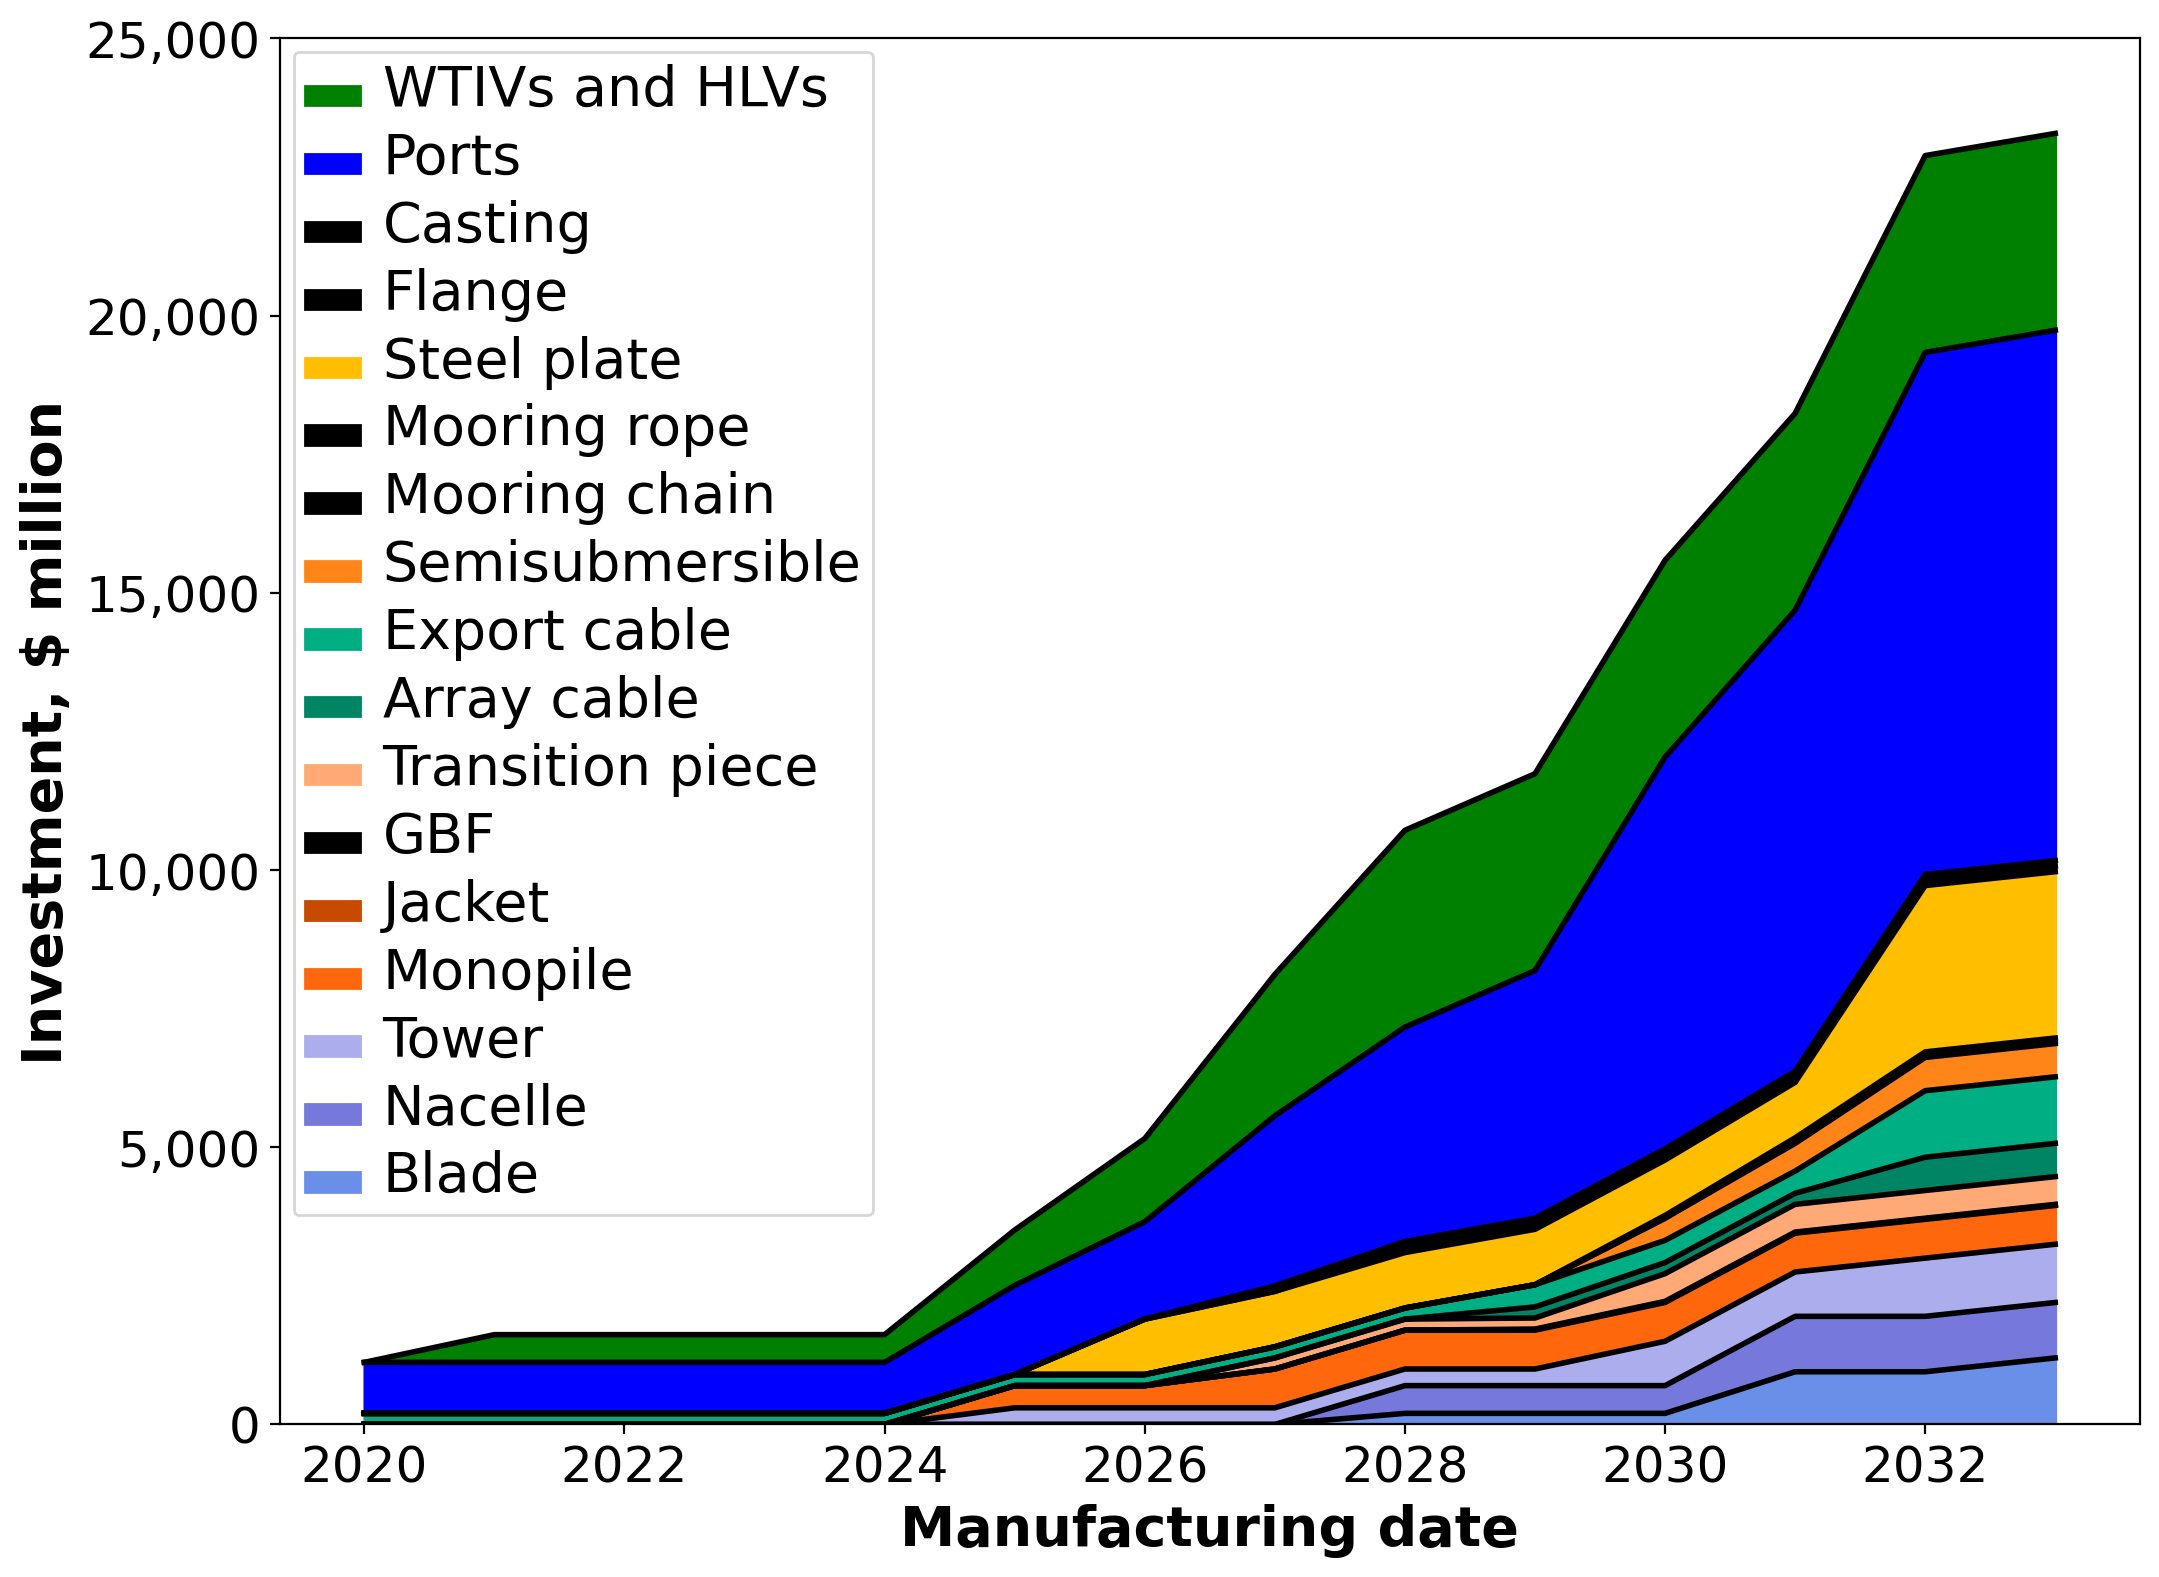
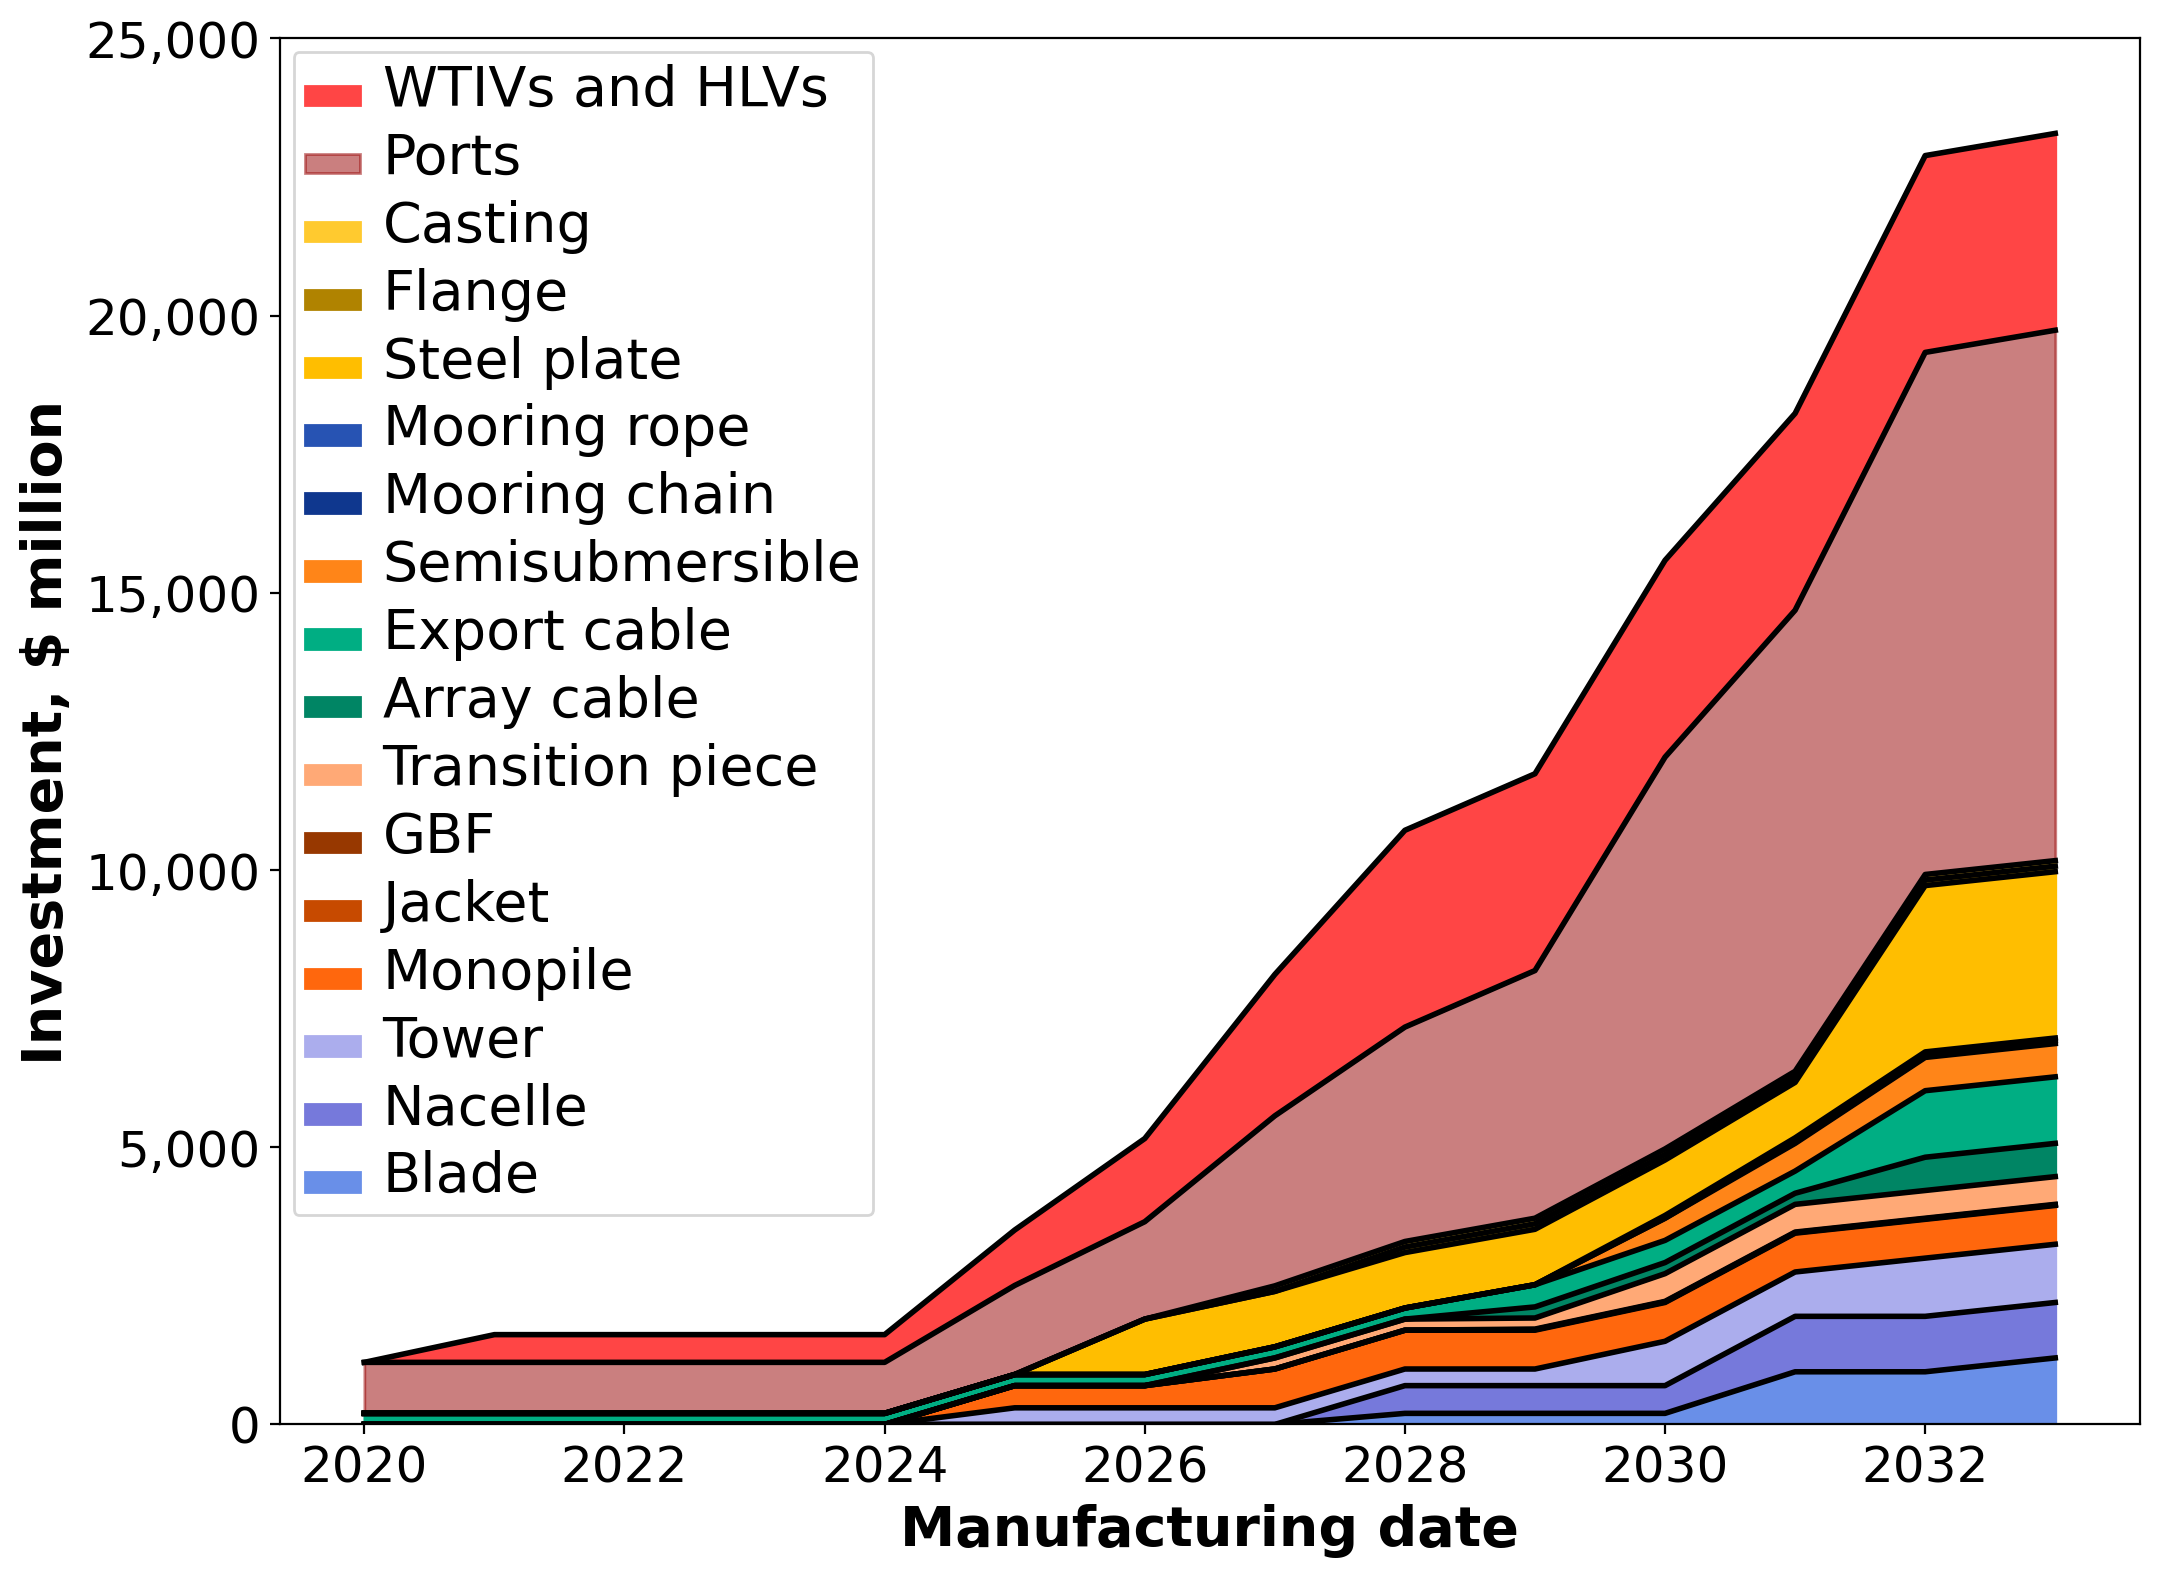
Some updates to component colors

diff --git a/helpers.py b/helpers.py
@@ -65,13 +65,13 @@ color_list = {
     # Color scheme for components: https://paletton.com/#uid=70m0P1kuovZh9G7nlz8xWp1E7j0kHlz6lxHTsYGtJjpEN5j5kLGs1q7F9IcGrO+m8T6fxkmuEKatTJhdM3rQzhvZqJ
     'Monopile': '#FF670D',
     'Jacket': '#C74A00',
-    'GBF': 'k',
+    'GBF': '#973800',
     'Semisubmersible': '#FF8518',
-    'Mooring chain': 'k',
-    'Mooring rope': 'k',
-    'Mooring Chain': 'k',
-    'Mooring Rope': 'k',
-    'Mooring System': 'k',
+    'Mooring chain': '#0F378E',
+    'Mooring rope': '#2753B3',
+    'Mooring Chain': '#0F378E',
+    'Mooring Rope': '#2753B3',
+    'Mooring System': '#2753B3',
     'Anchor': 'k',
     'Blade': '#698FE8',
     'Nacelle': '#7679DB',
@@ -79,11 +79,12 @@ color_list = {
     'Transition piece': '#FFA976' ,
     'Array cable': '#008564',
     'Export cable': '#00AE83',
-    'WTIV': '#B08300',
+    'WTIV': '#FF4545',
+    'Ports': '#970000',
     'Steel plate': '#FFBE00',
     'Steel plates':  '#FFBE00',
-    'Flange': 'k',
-    'Casting': 'k',
+    'Flange': '#B08300',
+    'Casting': '#FFCA2F',
     # Color schem for announced/scneario:
     'Announced': '#5D63AA',
     'Scenario': '#2F8B6F',

diff --git a/plot_routines.py b/plot_routines.py
@@ -234,11 +234,11 @@ def plot_cumulative(x, y1, y2, y3, y4, components, color_list, ylabel, fname=Non
 
     # Add ports
     yPorts = yBase + y3
-    ax.fill_between(x, list(yBase), list(yPorts), color='b', label='Ports')
+    ax.fill_between(x, list(yBase), list(yPorts), color=color_list['Ports'], alpha=0.5, label='Ports')
     ax.plot(x, yPorts, 'k')
     # Add vessels
     yVessels = yPorts + y4
-    ax.fill_between(x, list(yPorts), list(yVessels), color='g', label='WTIVs and HLVs')
+    ax.fill_between(x, list(yPorts), list(yVessels), color=color_list['WTIV'], label='WTIVs and HLVs')
     ax.plot(x, yVessels, 'k')
 
     total_inv = pd.DataFrame({'Year': x, 'Investment': yVessels})
